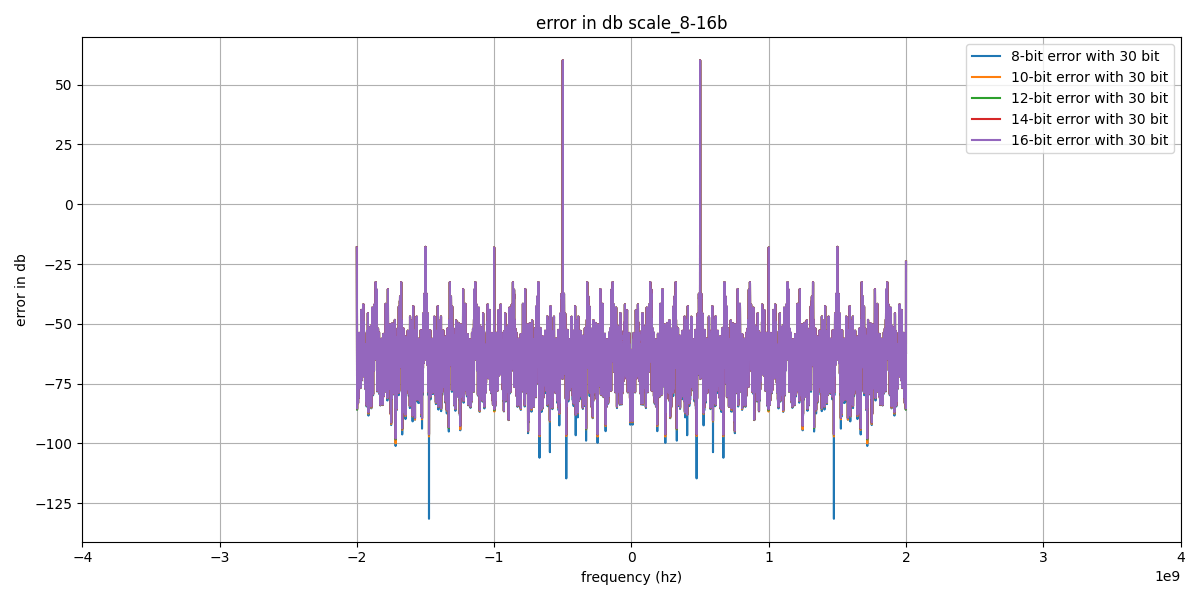
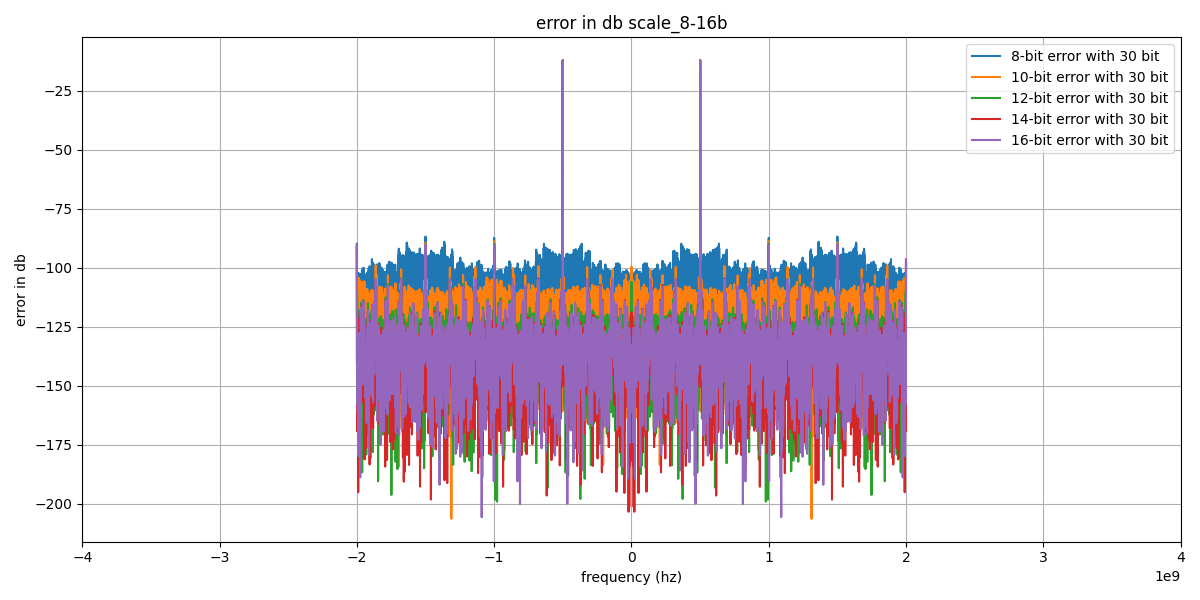
final ????

diff --git a/apsera_sim/main.py b/apsera_sim/main.py
@@ -4,9 +4,9 @@ import matplotlib.pyplot as plt
 import numpy as np
 from sine_input import sine_curve
 from adc import sample,adc
-from window import window_bits,window_precision
+from window import window_bits_normalised,window_precision
 from fft_12 import fft
-from truncating import truncate
+from truncating import truncate_normalised
 
 M = 16
 N = 1024
@@ -35,21 +35,10 @@ digital_values = [adc(vin,adc_bits,v_ref) for vin in adc_signal]
 # removing dc offset
 digital_values_no_offset = digital_values - np.mean(digital_values)  
 
-plt.plot(adc_time,digital_values_no_offset)
-plt.title(" signal aftr adc ")
-plt.xlabel("time")
-plt.ylabel("amp")
-# plt.xlim(-4000e6, 4000e6)
-plt.grid(True)
-plt.tight_layout()
-plt.show()
-plt.close()
-    
-
 # normalising signal to regular sine wave for right fft amplitude 
-# digital_values_no_offset = np.array((digital_values_no_offset)*2)/2**(adc_bits) 
+digital_values_no_offset = np.array((digital_values_no_offset)*2)/2**(adc_bits) 
 
-w_signal,gain_bits = window_bits(adc_time,w_bit)
+w_signal,gain_bits = window_bits_normalised(adc_time,w_bit)
 w_signal_fp,gain_fp = window_precision(adc_time)
 windowed_fp = digital_values_no_offset * w_signal_fp # windowing fp
 windowed_30 = digital_values_no_offset * w_signal # windowing signal
@@ -79,15 +68,13 @@ diff_mean={}
 
 #fft for truncated signal 
 for bit in n_bits:
-    windowed_truncate = truncate(bit,windowed_30)
+    windowed_truncate = truncate_normalised(bit,windowed_30)
     freq_truncated,mags_truncated = fft(M,N,P,windowed_truncate,adc_sampling_rate,gain=1)
     mags_trunc_db = 20*np.log10(mags_truncated/(np.max(mags_truncated)+eps))
     diff_linear = np.abs(mags_truncated-mags_30_shift)
     diff[bit] = 20*np.log10(diff_linear+eps)
     diff_mean[bit] = 20*np.log10(np.mean(diff_linear)+eps)
     plt.plot(freq_truncated, mags_trunc_db, label=f'{bit}-bit Truncated FFT' )
-    
-
 
 plt.title("30 and n_bits fft ")
 plt.xlabel("Frequency (Hz)")
@@ -125,8 +112,8 @@ plt.ylabel("error in db")
 plt.grid(True)
 plt.legend()
 plt.tight_layout()
-plt.savefig("fft_error_mean_8-16b.png")
-plt.show() 
+plt.savefig("fft_error_mean_8-16b.png") 
+plt.show()
 plt.close()
 
 # from graph we can conclude 10 bit or 12 bit is sufficient truncation as error beyond 12 bit 

diff --git a/apsera_sim/window.py b/apsera_sim/window.py
@@ -19,6 +19,23 @@ def window_bits(t,n_bits):
     # multiplying by max possible integer for n bit representation then rounding and typecasting to int 
     gain = np.sum(w)/length
     
+    #normalising back to 0->1
     # w_float_quantized = (w_bits/max_int)
     
     return w_bits,gain
+
+def window_bits_normalised(t,n_bits):
+    length = len(t)
+    n_bits -= 1
+    w = signal.windows.hann(length)
+    max_int = 2**n_bits - 1 
+    w_scaled = w/np.max(w)
+    # scaling so that when we multiply by max int window is stil b/w 0 -> 1
+    w_bits = np.round(w_scaled* max_int).astype(int) 
+    # multiplying by max possible integer for n bit representation then rounding and typecasting to int 
+    gain = np.sum(w)/length
+    
+    #normalising back to 0->1
+    w_float_quantized = (w_bits/max_int)
+    
+    return w_float_quantized,gain

diff --git a/apsera_sim/truncating.py b/apsera_sim/truncating.py
@@ -1,5 +1,16 @@
 import numpy as np
 
+def truncate_normalised(n_bits,windowed_sig):
+    max_int = 2**n_bits - 1
+    # bring b/w 0 and 1
+    windowed_scale = windowed_sig/np.max(windowed_sig)  
+    # assign appropriate integers depending upon bits
+    windowed_truncated = np.round(windowed_scale * max_int)
+    
+    windowed_truncated_normalised = windowed_truncated/max_int
+    
+    return windowed_truncated_normalised
+
 def truncate(n_bits,windowed_sig):
     max_int = 2**n_bits - 1
     # bring b/w 0 and 1
